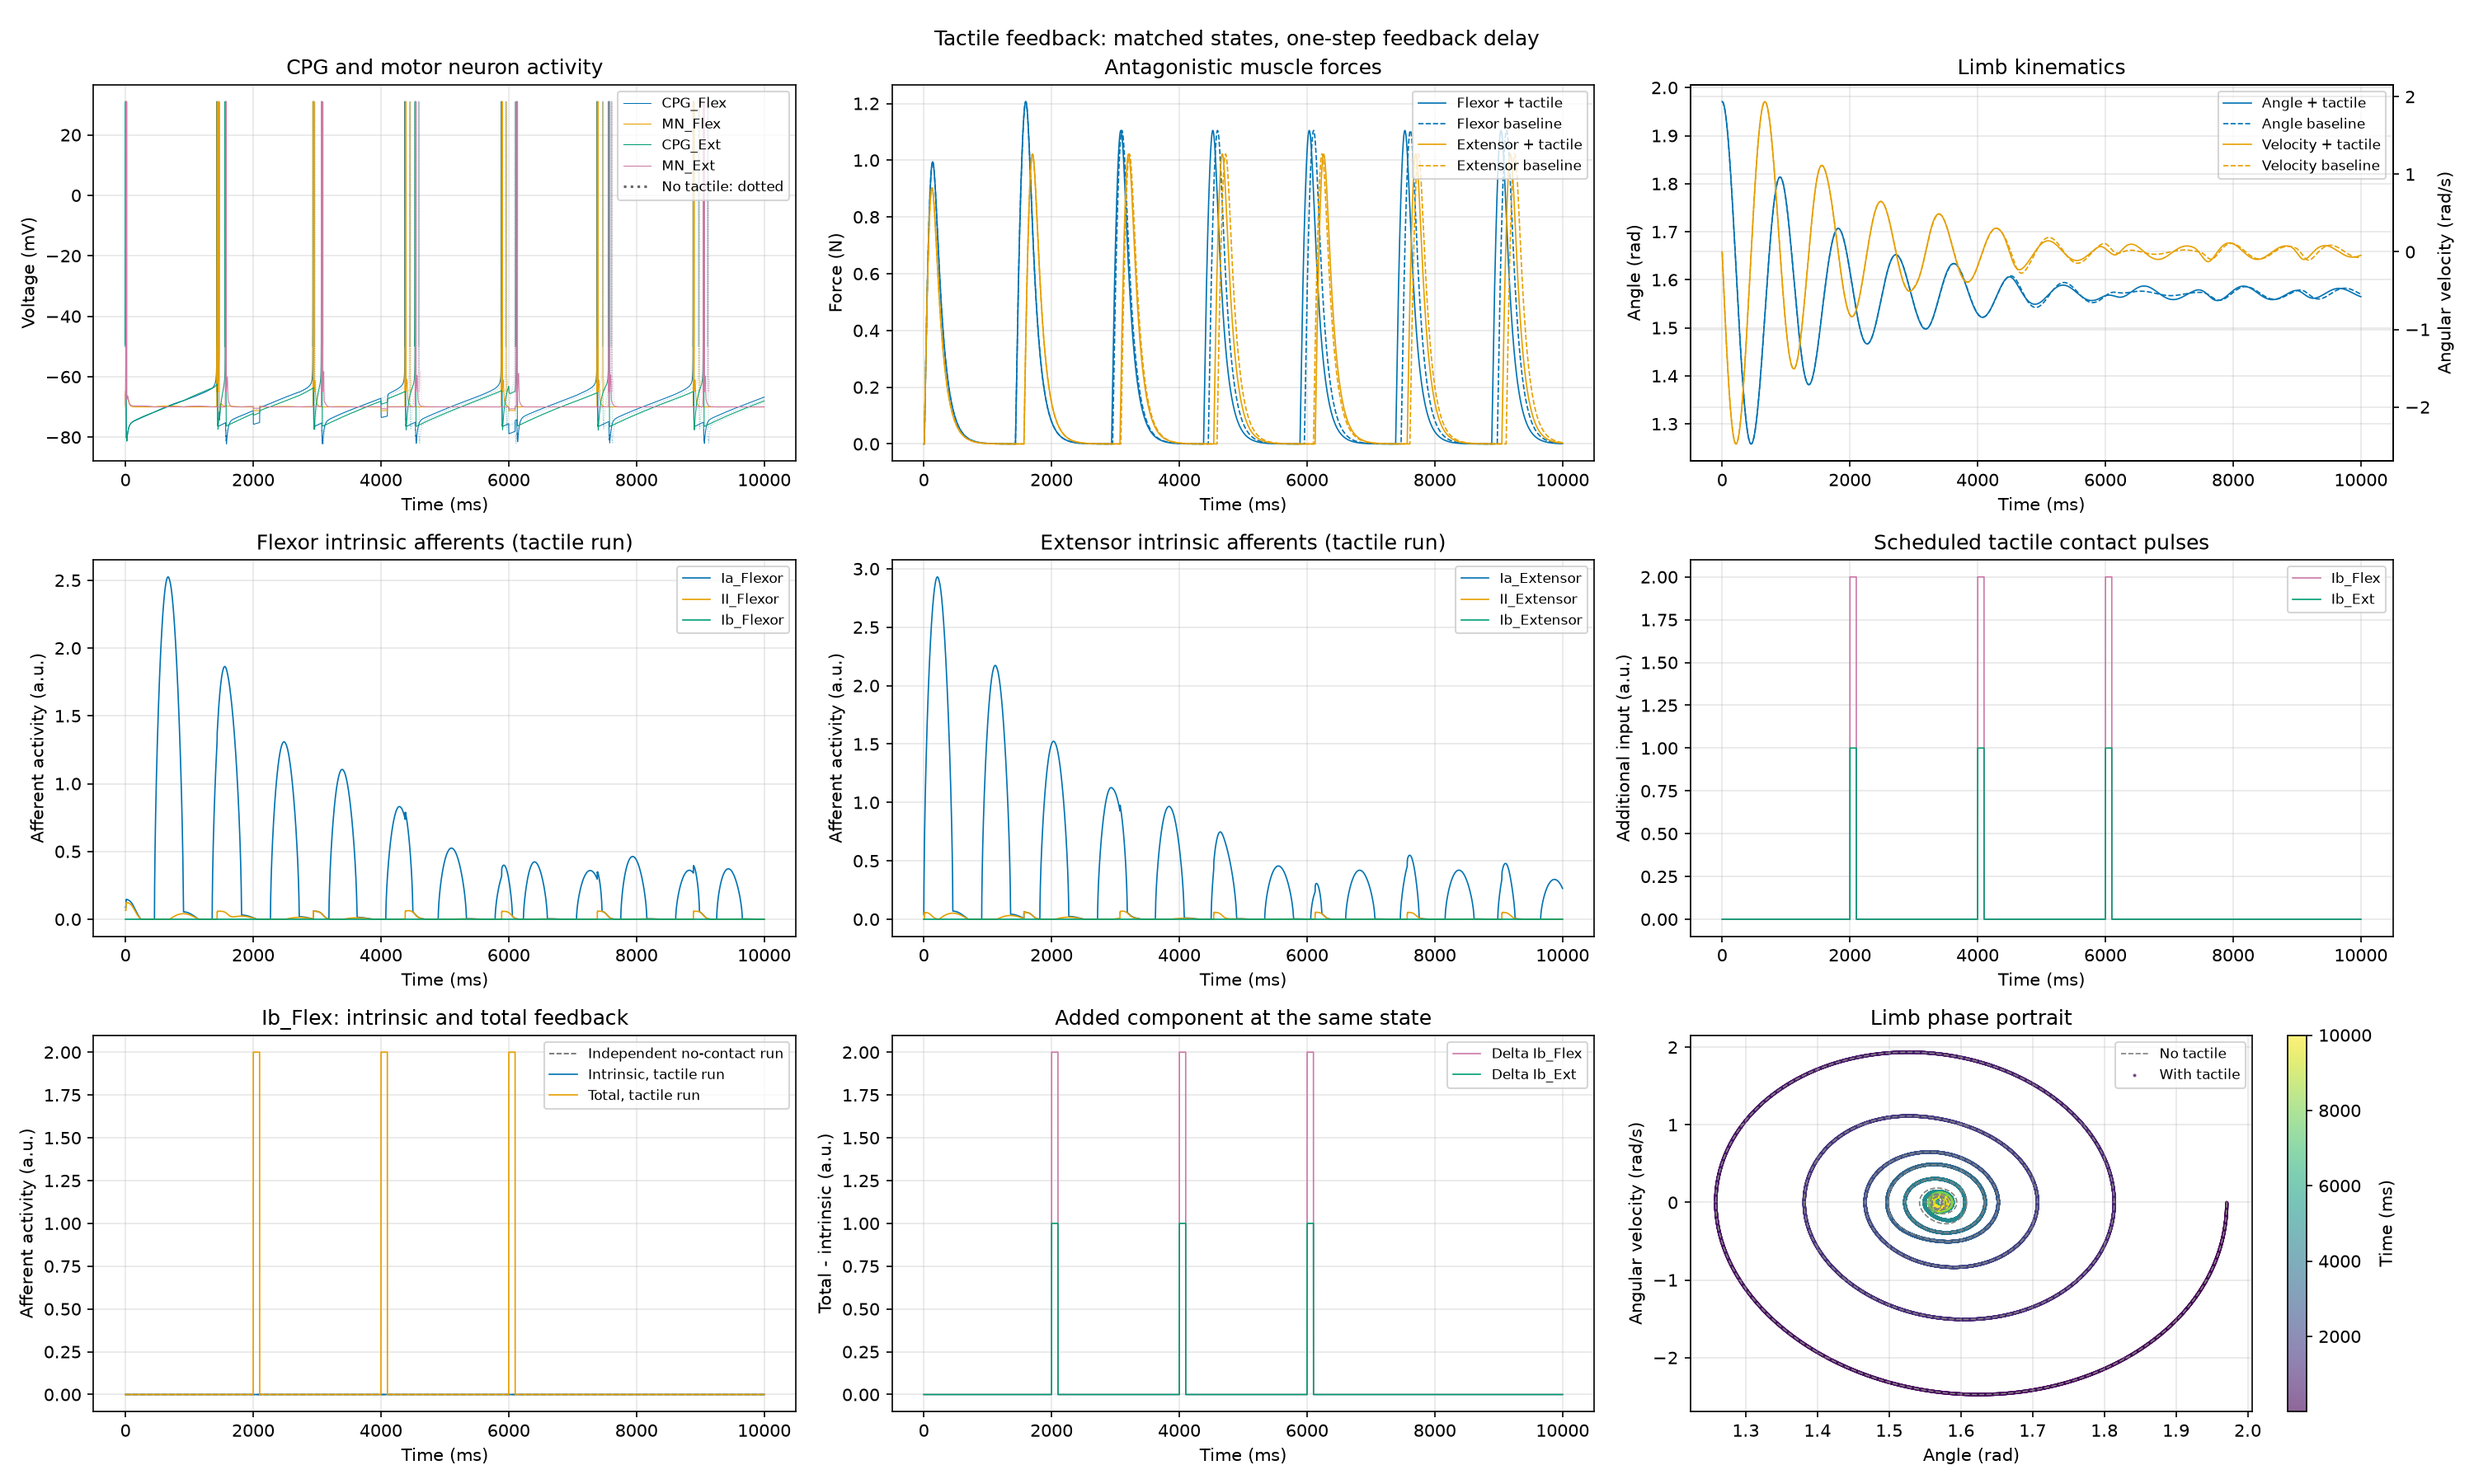
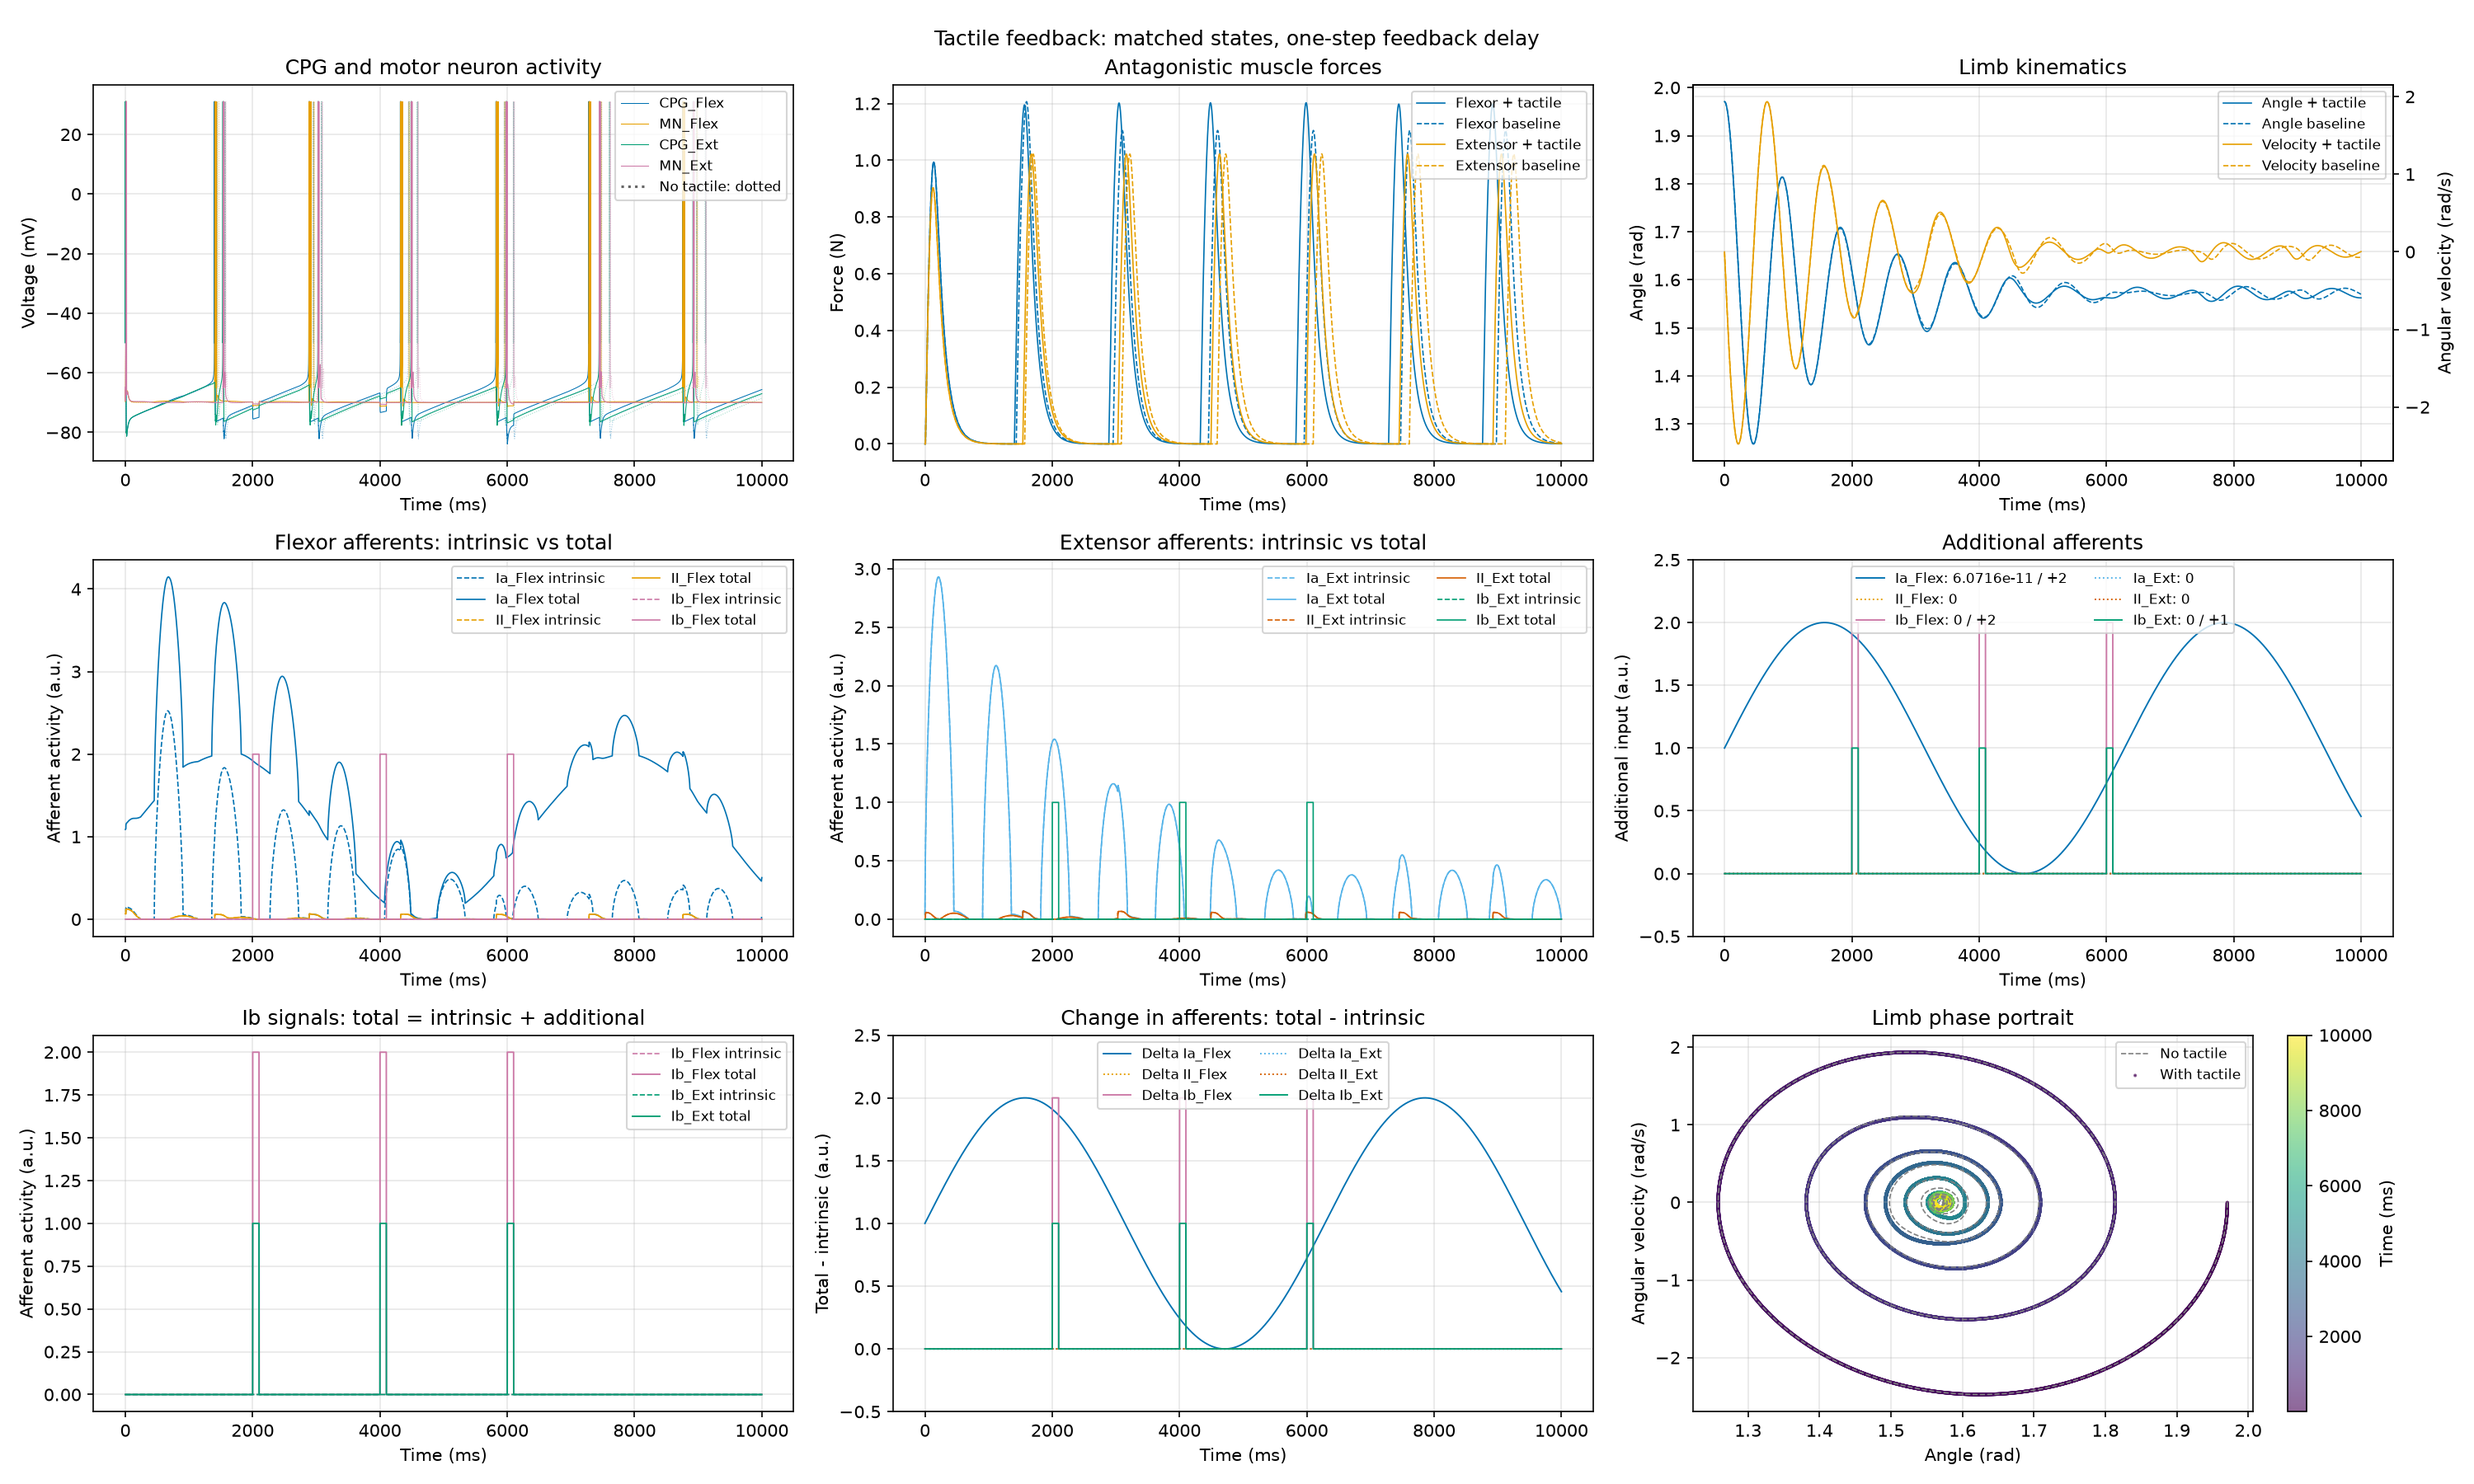
make additional afferents example

diff --git a/examples/example_additional_afferents.py b/examples/example_additional_afferents.py
@@ -38,6 +38,10 @@ from SpikingNN.core.Var_Limb import Var_Limb
 NAMES = ("CPG_Flex", "MN_Flex", "CPG_Ext", "MN_Ext")
 # Okabe-Ito palette: distinguishable with common color-vision deficiencies.
 COLORS = ("#0072B2", "#E69F00", "#009E73", "#CC79A7")
+AFFERENT_NAMES = ("Ia_Flex", "II_Flex", "Ib_Flex",
+                  "Ia_Ext", "II_Ext", "Ib_Ext")
+AFFERENT_COLORS = ("#0072B2", "#E69F00", "#CC79A7",
+                   "#56B4E9", "#D55E00", "#009E73")
 Trace = Dict[str, np.ndarray]
 
 
@@ -81,6 +85,7 @@ def create_tactile_signal(
     if not np.isfinite(duration) or duration <= 0:
         raise ValueError("duration must be finite and positive")
     signal = np.zeros((len(times), 6))
+    signal[:, 0] = 1+np.sin(times/1000)
     for onset in contacts:
         mask = (times >= onset) & (times < onset + duration)
         signal[mask, 2] = amplitude
@@ -272,7 +277,7 @@ def plot_results(
     """
     base, tactile = results["baseline"], results["tactile"]
     times = tactile["time"]
-    blue, orange, green, purple = COLORS
+    blue, orange = COLORS[:2]
     fig, grid = plt.subplots(3, 3, figsize=(20, 12))
     axes = grid.ravel()
 
@@ -310,33 +315,45 @@ def plot_results(
     for axis, offset, muscle in (
         (axes[3], 0, "Flexor"), (axes[4], 3, "Extensor"),
     ):
-        for index, (kind, color) in enumerate(zip(("Ia", "II", "Ib"), COLORS)):
-            axis.plot(times, tactile["intrinsic"][:, offset + index],
-                      color=color, linewidth=0.8, label=kind + "_" + muscle)
-        axis.set(title=muscle + " intrinsic afferents (tactile run)",
+        for channel in range(offset, offset + 3):
+            name, color = AFFERENT_NAMES[channel], AFFERENT_COLORS[channel]
+            axis.plot(times, tactile["intrinsic"][:, channel],
+                      color=color, linestyle="--", linewidth=0.8,
+                      label=name + " intrinsic")
+            axis.plot(times, tactile["afferents"][:, channel],
+                      color=color, linewidth=0.8, label=name + " total")
+        axis.set(title=muscle + " afferents: intrinsic vs total",
                  ylabel="Afferent activity (a.u.)")
 
-    for index, name, color in ((2, "Ib_Flex", purple), (5, "Ib_Ext", green)):
-        axes[5].plot(times, tactile["additional"][:, index],
-                     color=color, linewidth=0.8, label=name)
+    for index, (name, color) in enumerate(
+        zip(AFFERENT_NAMES, AFFERENT_COLORS),
+    ):
+        values = tactile["additional"][:, index]
+        low, high = values.min(), values.max()
+        levels = f"{low:g}" if low == high else f"{low:g} / {high:+g}"
+        style = "-" if np.any(values) else ":"
+        axes[5].plot(times, values, color=color, linestyle=style,
+                     linewidth=0.9, label=f"{name}: {levels}")
         difference = (
             tactile["afferents"][:, index] - tactile["intrinsic"][:, index]
         )
-        axes[7].plot(times, difference, color=color, linewidth=0.8,
+        axes[7].plot(times, difference, color=color, linestyle=style,
+                     linewidth=0.9,
                      label="Delta " + name)
-    axes[5].set(title="Scheduled tactile contact pulses",
+    axes[5].set(title="Additional afferents",
                 ylabel="Additional input (a.u.)")
-    axes[7].set(title="Added component at the same state",
+    axes[5].margins(y=0.25)
+    axes[7].set(title="Change in afferents: total - intrinsic",
                 ylabel="Total - intrinsic (a.u.)")
+    axes[7].margins(y=0.25)
 
-    axes[6].plot(times, base["afferents"][:, 2], color="0.4",
-                 linestyle="--", linewidth=0.8,
-                 label="Independent no-contact run")
-    axes[6].plot(times, tactile["intrinsic"][:, 2], color=blue,
-                 linewidth=0.8, label="Intrinsic, tactile run")
-    axes[6].plot(times, tactile["afferents"][:, 2], color=orange,
-                 linewidth=0.8, label="Total, tactile run")
-    axes[6].set(title="Ib_Flex: intrinsic and total feedback",
+    for channel in (2, 5):
+        name, color = AFFERENT_NAMES[channel], AFFERENT_COLORS[channel]
+        axes[6].plot(times, tactile["intrinsic"][:, channel], color=color,
+                     linestyle="--", linewidth=0.8, label=name + " intrinsic")
+        axes[6].plot(times, tactile["afferents"][:, channel], color=color,
+                     linewidth=0.9, label=name + " total")
+    axes[6].set(title="Ib signals: total = intrinsic + additional",
                 ylabel="Afferent activity (a.u.)")
 
     axes[8].plot(base["q"], base["w"], color="0.5", linewidth=0.8,
@@ -353,7 +370,7 @@ def plot_results(
         if index < 8:
             axis.set_xlabel("Time (ms)")
         if index not in (0, 2):
-            axis.legend(fontsize=8)
+            axis.legend(fontsize=8, ncol=2 if index in (3, 4, 5, 7) else 1)
     fig.suptitle("Tactile feedback: matched states, one-step feedback delay")
     fig.tight_layout()
     fig.savefig(output, dpi=150, format="png")
